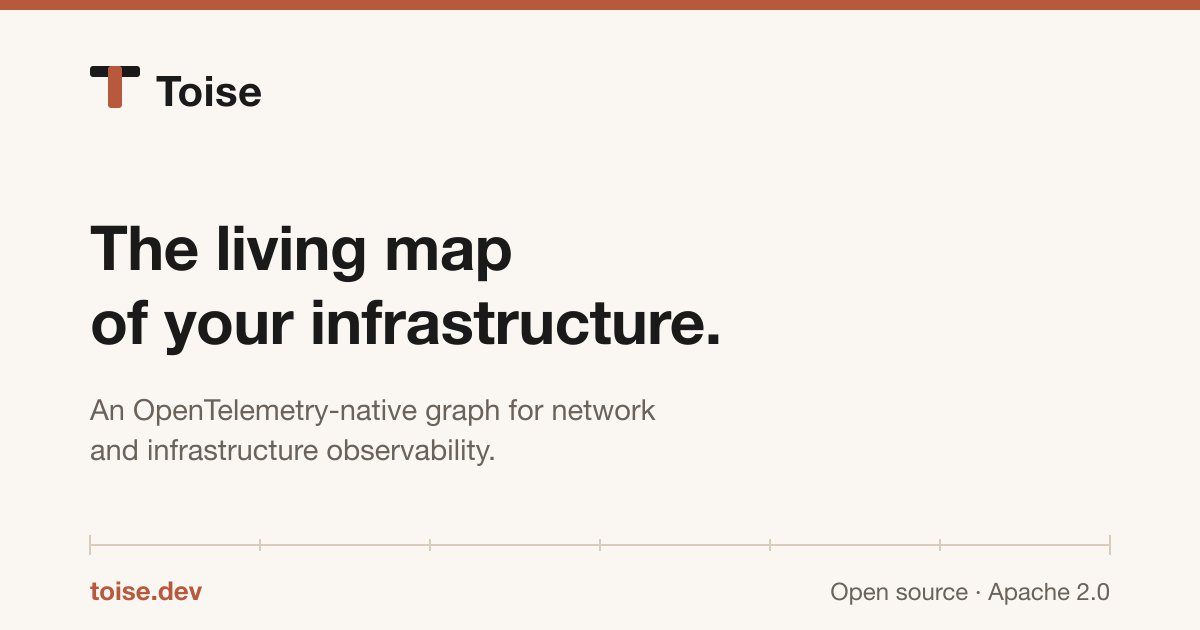
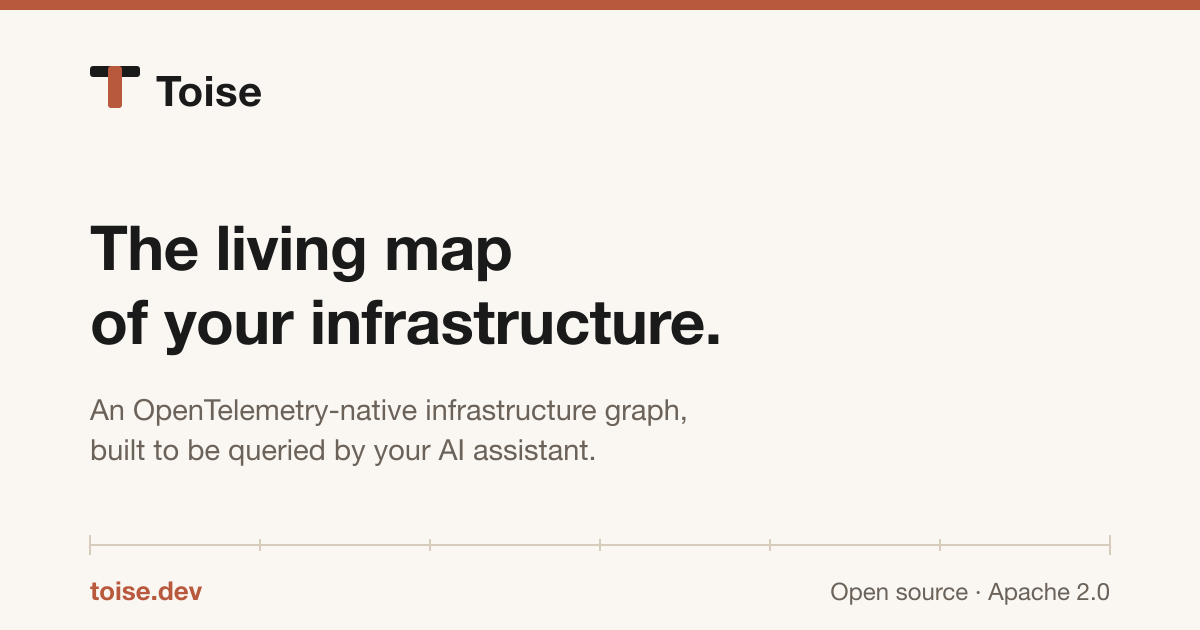
docs: revise site copy for the LLM-first positioning
The scope sharpened: Toise is LLM-first (native MCP), OpenTelemetry-native
(ingests OTLP entity events, runs no collectors of its own), and temporal by
construction (event-sourced, bi-temporal). The old copy claimed Toise ingests
directly from SNMP/gNMI/vSphere/etc. — that collection is done by external OTel
producers, not Toise.

- Hero subtagline now leads with the AI-assistant angle.
- "Why Toise" frames it as the missing inventory/topology brick of the OSS
  observability stack, queryable by an LLM.
- "What it does" columns: AI assistant (MCP), OTLP ingestion, temporal.
- Status reflects ingestion + MCP under design (no "receivers").
- OG card subtagline updated to match.

Changed region(s): [[0.0617, 0.6937, 0.4933, 0.754], [0.3392, 0.6333, 0.5858, 0.6937]]

diff --git a/index.html b/index.html
@@ -263,8 +263,8 @@
         <section class="hero">
           <h1>The living map of your infrastructure.</h1>
           <p class="subtagline">
-            An OpenTelemetry-native graph for network and infrastructure
-            observability.
+            An OpenTelemetry-native graph of your infrastructure — temporal by
+            design, and built to be queried by your AI assistant.
           </p>
           <div class="buttons">
             <a class="btn btn-primary" href="https://github.com/toise-dev/toise"
@@ -284,9 +284,13 @@
           <h2>Why Toise</h2>
           <p>
             Modern observability stacks have closed the visibility gap for
-            applications, hosts, containers, and services. The network and the
-            living inventory of how everything connects remain a recurring blind
-            spot. Toise fills it, in the same paradigm.
+            applications, hosts, containers, and services. The living inventory
+            of the underlying infrastructure — what exists, how it connects, and
+            how it changes over time — remains a blind spot. Toise fills it: the
+            missing inventory-and-topology brick of the open-source
+            observability stack (OpenTelemetry, VictoriaMetrics, Grafana, Loki,
+            Tempo), designed so an AI assistant can answer an operator's
+            questions about it directly.
           </p>
         </section>
 
@@ -296,26 +300,27 @@
           <h2>What it does</h2>
           <div class="cols">
             <div>
-              <h3>Ingests where the truth lives</h3>
+              <h3>Built for your AI assistant</h3>
               <p>
-                SNMP, gNMI, vSphere, Active Directory, host agents, cloud APIs.
-                Toise meets your infrastructure where it already speaks, not
-                where it should ideally be.
+                Toise ships a native MCP server. Your LLM queries it on your
+                behalf to answer questions about inventory, topology,
+                dependencies, and what changed — in plain language.
               </p>
             </div>
             <div>
-              <h3>Maintains a live graph</h3>
+              <h3>OpenTelemetry-native ingestion</h3>
               <p>
-                Entities and relationships update as your infrastructure
-                changes. No weekly CMDB refresh. The map is always current,
-                queryable, and auditable.
+                Toise ingests OTLP entity events from any OpenTelemetry producer
+                (host and network agents). It runs no collectors of its own; it
+                speaks the standard, not a proprietary protocol.
               </p>
             </div>
             <div>
-              <h3>Speaks OpenTelemetry</h3>
+              <h3>Temporal by construction</h3>
               <p>
-                Receivers emit OTLP. Entities follow OpenTelemetry semantic
-                conventions. Plug Toise into the stack you already run.
+                Event-sourced and bi-temporal. Not just the current state: what
+                changed, why it differs from yesterday, and the full timeline of
+                any entity.
               </p>
             </div>
           </div>
@@ -326,10 +331,10 @@
         <section>
           <h2>Status</h2>
           <p>
-            Toise is in early development. Core architecture, data model, and
-            first receivers are under active design. Expect breaking changes. We
-            are not yet ready for production use. Follow the project on GitHub or
-            read the roadmap to see where we're heading.
+            Toise is in early development. The core architecture, data model,
+            OTLP ingestion, and MCP server are under active design. Expect
+            breaking changes. We are not yet ready for production use. Follow the
+            project on GitHub or read the roadmap to see where we're heading.
           </p>
         </section>
 
